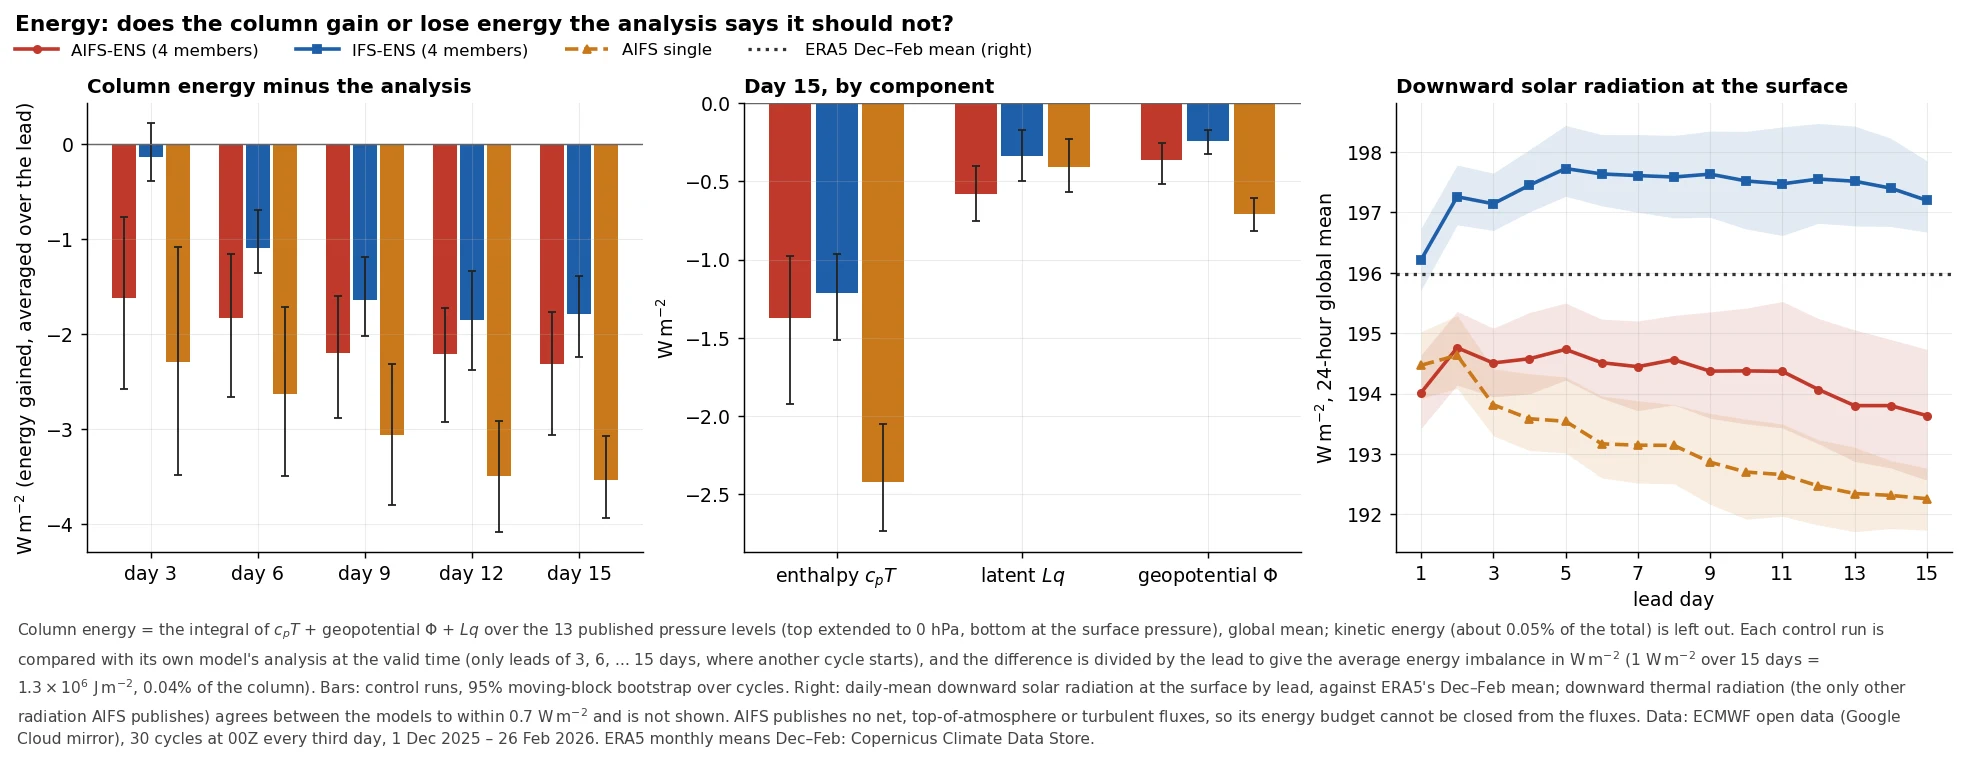
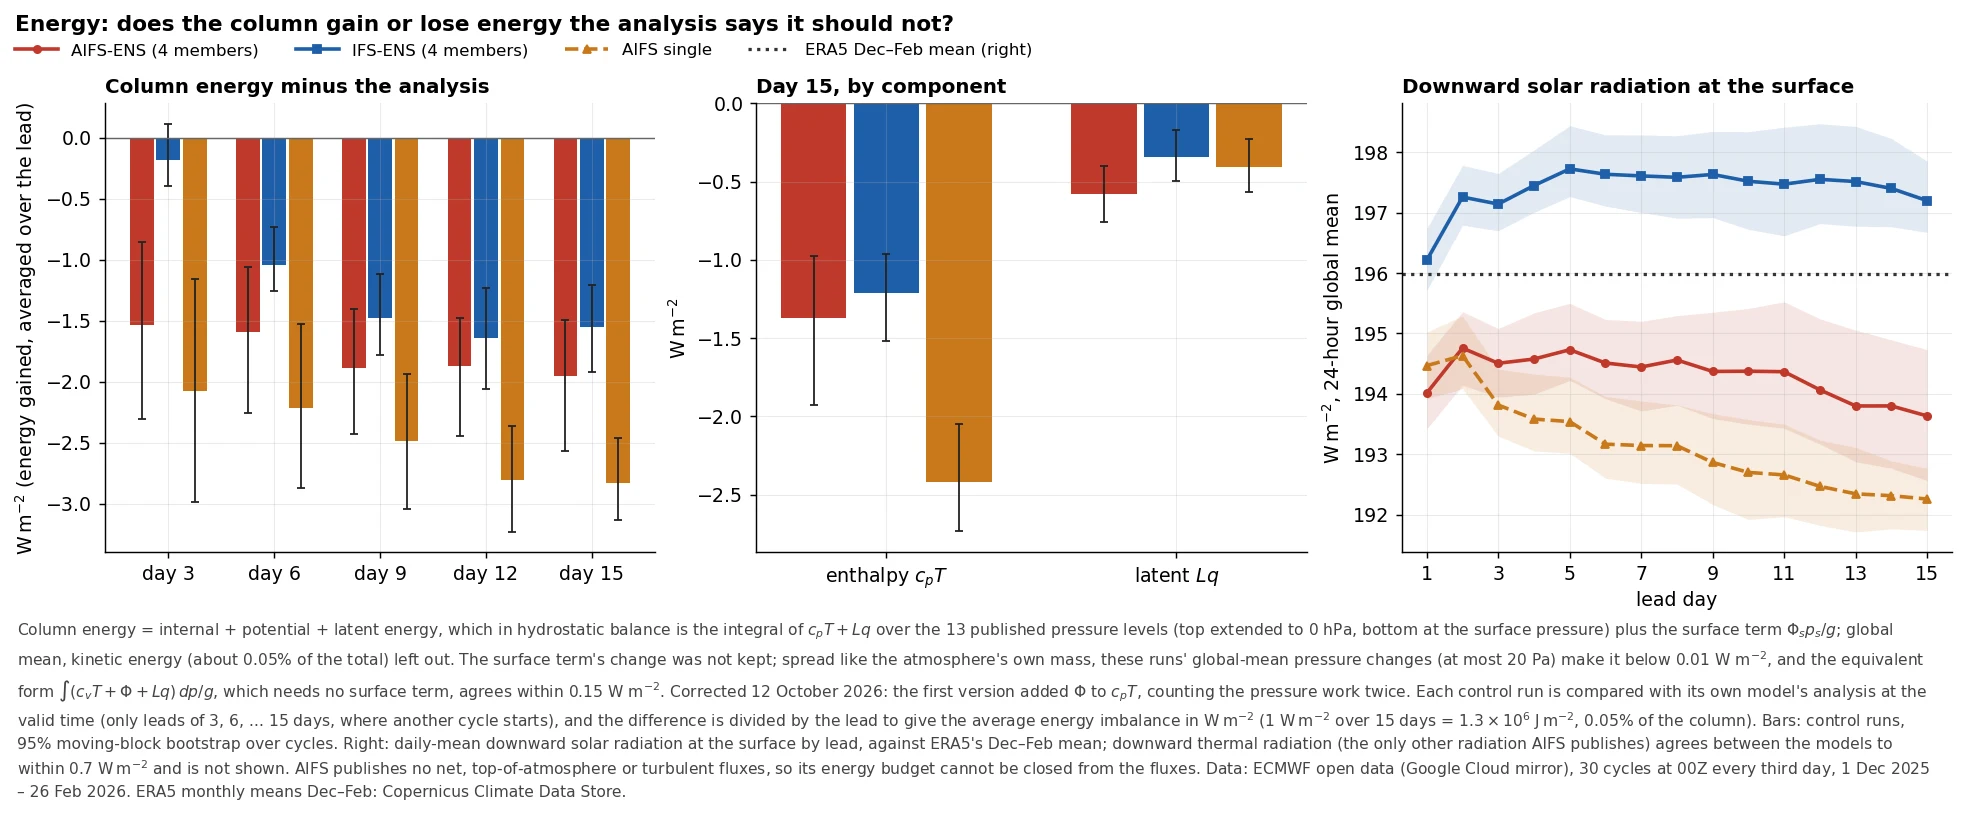
AINWP conservation study: column energy corrected (pressure work was counted twice)
The energy total was int (c_pT + Phi + Lq) dp/g, which counts the pressure work R T twice (+28 %).
Now int (c_pT + Lq) dp/g + Phi_s p_s/g (the surface term's change was not kept; < 0.01 W m-2 if the
mass change is spread like the atmosphere's own mass; the c_v form agrees within 0.15 W m-2),
recomputed from the stored column integrals (~/aam_budget, no new downloads). Day-15 drift against
each model's analysis: AIFS-ENS -2.3 -> -2.0, IFS-ENS -1.8 -> -1.6, AIFS single -3.5 -> -2.8 W m-2;
AIFS-ENS minus IFS-ENS -0.52 -> -0.40 (95 % -0.94 to -0.002, p = 0.049; still 4 of 5 leads);
AIFS single minus IFS-ENS -1.74 -> -1.27. Components and every mass/water number unchanged.
Figure 12 redrawn (components: enthalpy and latent), correction note on the page.

Claude-Session: https://claude.ai/code/session_01XNh8pbXM7FCZppdye7QTLx

Changed region(s): [[0.0, 0.0, 0.9934, 0.9987], [0.714, 0.0908, 0.9623, 0.1211], [0.683, 0.1513, 0.714, 0.2118]]

diff --git a/aifs-aam-budget.html b/aifs-aam-budget.html
@@ -25,7 +25,7 @@
  "url": "https://scorvec.com/aifs-aam-budget.html",
  "inLanguage": "en",
  "datePublished": "2026-10-01",
- "dateModified": "2026-10-02",
+ "dateModified": "2026-10-12",
  "author": {
   "@id": "https://scorvec.com/#person"
  },
@@ -444,17 +444,26 @@
   <figure id="fig11"><a href="/studies/aifs-aam-budget/cons_water.webp" class="zoom"><img src="/studies/aifs-aam-budget/cons_water.webp" alt="Global precipitation, change in column water and implied evaporation by lead day for AIFS-ENS, IFS-ENS and AIFS single" loading="lazy"></a><figcaption><b>Figure 11.</b> The global water budget by lead day: precipitation (left), change in column water (middle) and the evaporation they imply (right).</figcaption></figure>
 
   <h3>Energy: drift against the analysis</h3>
-  <p>The total energy of the column, $\int (c_pT + \Phi + Lq)\,dp/g$, changes only through radiation and surface fluxes, which AIFS does not
+  <p>The total energy of the column (internal, potential and latent energy; kinetic energy is about 0.05% of it) is
+  $\int (c_vT + \Phi + Lq)\,dp/g$, which in hydrostatic balance equals $\int (c_pT + Lq)\,dp/g + \Phi_s p_s/g$, with $\Phi_s$ the
+  geopotential of the ground. It changes only through radiation and surface fluxes, which AIFS does not
   publish. The test that remains is drift: compare each control run with its own model's analysis at the valid time, possible at days 3, 6,
   9, 12 and 15 because a new cycle starts every third day. The analysis is not a conservation law, so this measures how far each model
   wanders from the observed energy state, not a budget residual.</p>
+  <p><b>Corrected 12 October 2026.</b> The first version of this section used $\int (c_pT + \Phi + Lq)\,dp/g$, which adds the
+  geopotential to the enthalpy and so counts the work done by pressure twice (about 28% too much energy, and its drift too large). The
+  drifts below use $\int (c_pT + Lq)\,dp/g$. The change in the surface term $\Phi_s p_s/g$ was not kept; spread like the atmosphere's
+  own mass, these runs' global-mean pressure changes (at most 20 Pa) make it below 0.01 W m<sup>−2</sup>, and the form
+  $\int (c_vT + \Phi + Lq)\,dp/g$, which needs no surface term, agrees within 0.15 W m<sup>−2</sup>. The day-15 losses were
+  -2.3, -1.8 and -3.5 W m<sup>−2</sup> before the correction; the conclusions are unchanged.</p>
   <ul>
-    <li><b>All three lose energy.</b> By day 15 the loss averages -2.3 W m<sup>−2</sup> for AIFS-ENS, -1.8 for
-    IFS-ENS and -3.5 for AIFS single over the 15 days, mostly as cooling (enthalpy -1.4,
+    <li><b>All three lose energy.</b> By day 15 the loss averages -2.0 W m<sup>−2</sup> for AIFS-ENS, -1.6 for
+    IFS-ENS and -2.8 for AIFS single over the 15 days, mostly as cooling (enthalpy -1.4,
     -1.2 and -2.4). A cooling drift of this size is a known IFS behaviour, so the physics model
     is no reference of perfection here.</li>
-    <li><b>AIFS-ENS drifts slightly faster than IFS-ENS</b>: -0.52 (95% interval -1.20 to -0.02) W m<sup>−2</sup> at day 15, significant at 4 of the
-    5 tested leads. <b>AIFS single drifts faster</b>: -1.74 (95% interval -2.41 to -0.95) W m<sup>−2</sup>.</li>
+    <li><b>AIFS-ENS drifts slightly faster than IFS-ENS</b>: -0.40 (95% interval -0.94 to -0.002) W m<sup>−2</sup> at day 15, only just significant
+    (p = 0.049; -0.48, p = 0.025, with the $c_v$ form of the total), and significant at 4 of the
+    5 tested leads (days 3, 6, 9 and 15). <b>AIFS single drifts faster</b>: -1.27 (95% interval -1.80 to -0.65) W m<sup>−2</sup>.</li>
     <li>AIFS-ENS's downward solar radiation at the surface is 3.1 W m<sup>−2</sup> lower than IFS-ENS's at every
     lead (significant); its downward thermal radiation is the same within 0.5 W m<sup>−2</sup>. Without net or top-of-atmosphere radiation,
     this cannot be tied to the energy drift.</li>
@@ -487,7 +496,7 @@
   contains modified Copernicus Climate Change Service information 2026. Neither ECMWF nor the European Commission is
   responsible for any use of this information. About 128 GB of forecast fields and 95 GB of ERA5 were read for the angular
   momentum study, and a further 28 GB of forecast fields for the mass, water and energy extension.</p>
-  <p class="byline">By <a href="/about.html">Shawn Corvec</a>, meteorologist. Published 1 October 2026; mass, water and energy added 2 October 2026. A static study: it is not updated.</p>
+  <p class="byline">By <a href="/about.html">Shawn Corvec</a>, meteorologist. Published 1 October 2026; mass, water and energy added 2 October 2026; energy totals corrected 12 October 2026. A static study: it is not updated.</p>
 </article>
 
 </main>
